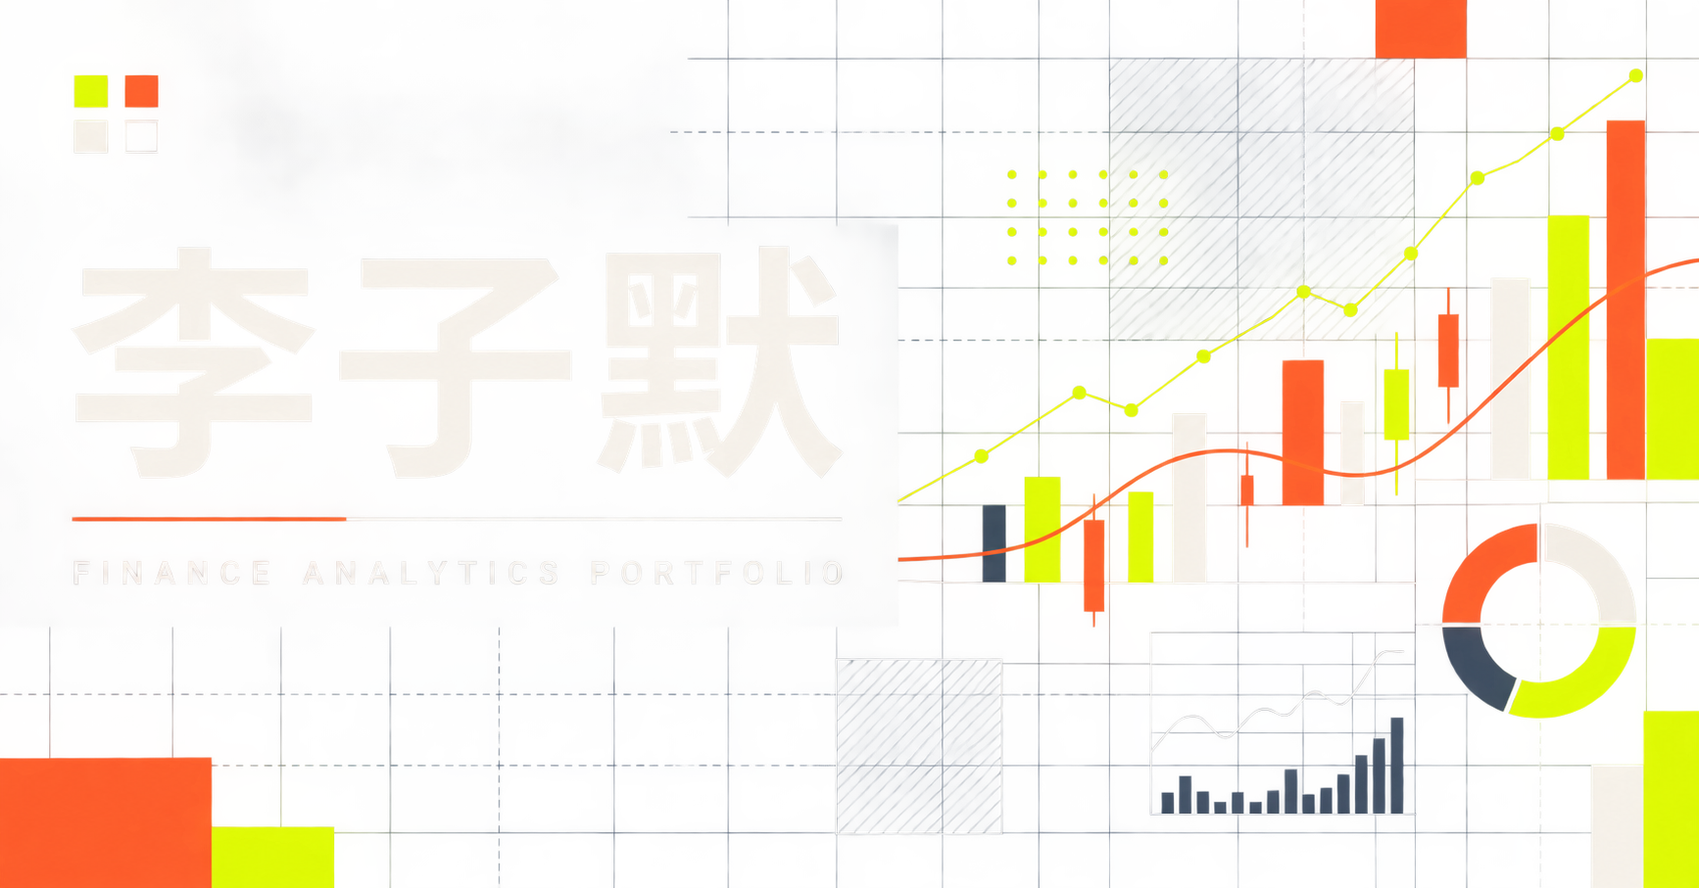
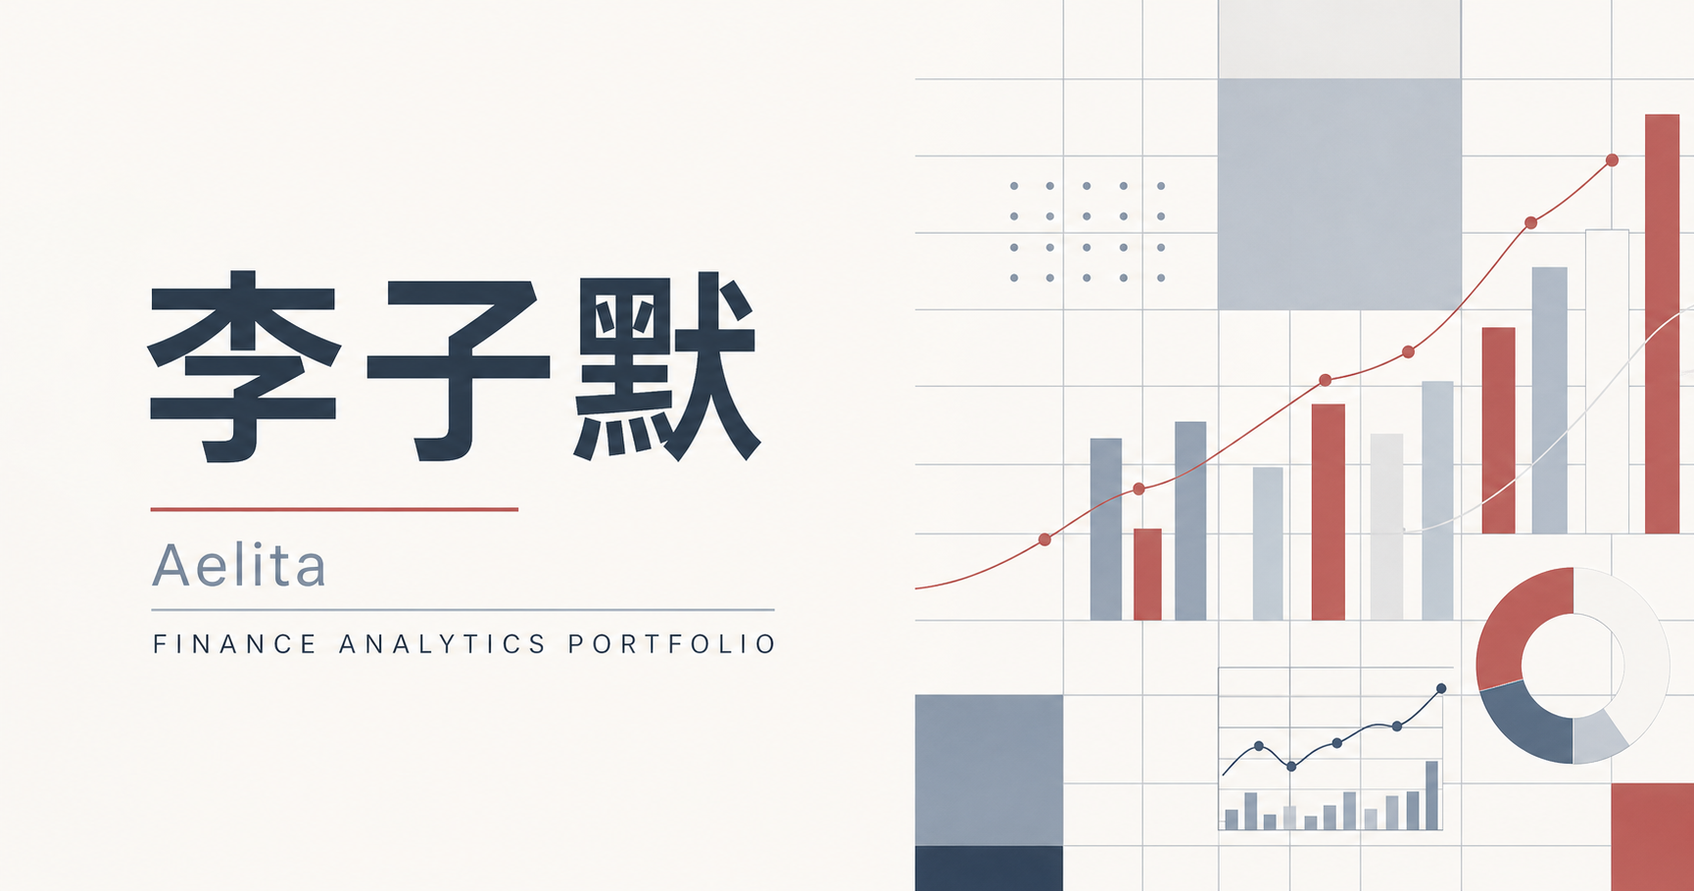
Refine portfolio palette and add English resume

diff --git a/public/resume-en.html b/public/resume-en.html
@@ -1,0 +1,120 @@
+<!DOCTYPE html>
+<html lang="en">
+<head>
+<meta charset="UTF-8" />
+<title>Resume - Finance Analytics / Business Analytics</title>
+<style>
+  * { box-sizing: border-box; }
+  body { margin: 0; background: #f4f1ed; color: #273445; font-family: "Microsoft YaHei", Arial, sans-serif; font-size: 11px; line-height: 1.36; }
+  .page { width: 210mm; min-height: 297mm; margin: 0 auto; padding: 9mm 11mm; background: #fbfaf8; }
+  @page { size: A4; margin: 8mm; }
+  @media print { body { background: #fff; } .page { width: auto; min-height: auto; margin: 0; padding: 0; } .placeholder { color: #273445; } .language-switch { display: none; } }
+  .header { border-bottom: 2px solid #344457; padding-bottom: 5px; margin-bottom: 6px; position: relative; }
+  .name { font-size: 21px; font-weight: 800; color: #344457; letter-spacing: .5px; }
+  .contact { margin-top: 2px; font-size: 10.5px; color: #586576; }
+  .target { margin-top: 4px; font-size: 12.5px; font-weight: 800; color: #344457; }
+  .summary { margin-top: 3px; font-size: 10.8px; color: #273445; }
+  .summary b, b { color: #273445; }
+  .section { margin-top: 6px; }
+  .section-title { font-size: 13px; font-weight: 800; color: #344457; border-bottom: 1px solid #c8cfd6; padding-bottom: 2px; margin-bottom: 4px; }
+  .row { display: flex; justify-content: space-between; align-items: baseline; gap: 8px; }
+  .company { font-size: 11.7px; font-weight: 800; color: #273445; }
+  .role { font-weight: 700; color: #465469; }
+  .date { font-size: 10.3px; color: #697585; white-space: nowrap; }
+  ul { margin: 2px 0 0; padding-left: 15px; }
+  li { margin: 1.5px 0; }
+  .skills { font-size: 10.6px; line-height: 1.4; }
+  .placeholder { color: #a65f5b; font-weight: 700; }
+  .two-col { display: grid; grid-template-columns: 1.2fr 1fr; gap: 12px; }
+  .language-switch { position: absolute; right: 0; top: 2px; color: #a65f5b; font-size: 9px; font-weight: 700; text-decoration: none; }
+</style>
+</head>
+<body>
+<div class="page">
+  <div class="header">
+    <a class="language-switch" href="/resume.html">中文版本 ↗</a>
+    <div class="name">Aelita Li (Li Zimo)</div>
+    <div class="contact">[15221824019] | [15221824019@163.com] | Changning, Shanghai | [BOSS / LinkedIn / Portfolio]</div>
+    <div class="target">Target Roles: Finance Analytics / AI Commercial Finance / Business Analytics / Financial Data Analytics</div>
+    <div class="summary">
+      <b>Around seven years of experience in finance and analytics</b>, CPA non-practising member, and Master of Applied Statistics at Tongji University.
+      In the past two years, focused on <b>overseas FP&amp;A, budgeting and forecasting, cost allocation, Power BI models, and real-time cost monitoring</b>.
+      Earlier experience covers <b>financial statement analysis, historical data cleansing, automated templates, online reporting, and financial-system requirements</b>.
+    </div>
+  </div>
+
+  <div class="section">
+    <div class="section-title">Core Skills &amp; Certifications</div>
+    <div class="skills">
+      <b>Finance &amp; Business:</b> Budgeting, Rolling Forecast, Variance Analysis, Cost Allocation, Cash Forecasting, Management Reporting, Consolidated Reporting, Financial Analysis<br>
+      <b>Data &amp; Tools:</b> Power BI, Excel, Python, MySQL, Metric Definition, Data Cleansing, Time-Series Analysis, Anomaly Detection, Data Visualisation<br>
+      <b>Certifications &amp; Languages:</b> CPA Non-practising Member, ACCA, CFA Level I, Intermediate Accountant, Tax Advisor, CET-6; English as a working language
+    </div>
+  </div>
+
+  <div class="section">
+    <div class="section-title">Professional Experience</div>
+
+    <div class="row">
+      <div><span class="company">[Weidu Technology]</span> | <span class="role">Overseas Financial Analysis / Business Analytics / FP&amp;A</span></div>
+      <div class="date">Jun 2024 – Aug 2026</div>
+    </div>
+    <ul>
+      <li><b>Overseas FP&amp;A:</b> Built budgeting, actuals, rolling-forecast, and cash-forecast analysis frameworks for labour, outsourcing, communications, and other administrative costs across Thailand, Indonesia, and other overseas markets; supported monthly business reviews, budget submissions, and management decisions.</li>
+      <li><b>Long-term cost forecasting:</b> Produced long-range cost projections using business drivers, base months, countries, cohorts, cost categories, and key parameter adjustments; kept forecast-to-actual variance within <span class="placeholder">[verified threshold ≤5%]</span> for selected months and countries.</li>
+      <li><b>Real-time cost monitoring:</b> Tracked D1–15/30 cost ratios, D15/30+ output metrics, actual costs, and forecast variances, moving part of cost analysis from month-end review to in-period monitoring and anomaly identification.</li>
+      <li><b>Power BI and metric definitions:</b> Maintained and improved cost/budget Power BI models, cost-allocation logic, underlying D tables, and metric documentation; supported data requests from Finance, Operations, HR, Compliance, Management, and <span class="placeholder">[number of teams/users]</span>.</li>
+      <li><b>Ad hoc analysis and business partnering:</b> Delivered monthly country-cost, net-collection, cash-forecast, and budget-variance analysis; decomposed the impact of volume, unit cost, mix, and strategy changes and followed up on selected recommendations.</li>
+    </ul>
+
+    <div class="row" style="margin-top:6px;">
+      <div><span class="company">China Minsheng Investment Group</span> | <span class="role">Financial Analysis &amp; Reporting Systematisation</span></div>
+      <div class="date">Oct 2021 – Jun 2024</div>
+    </div>
+    <ul>
+      <li><b>Financial analysis and automation:</b> Built consolidated financial-analysis, expense-analysis, and management-reporting templates; used Excel and Python for automated data extraction and preprocessing to support monthly and annual analysis and anomaly investigation.</li>
+      <li><b>Reporting analysis and risk identification:</b> Performed year-on-year and sequential financial-statement analysis by business segment, reviewed account relationships and unusual movements, and supported the identification of potential financial risks.</li>
+      <li><b>Historical data cleansing:</b> Reviewed historical ledgers and business records, identified book-to-actual differences and long-outstanding balances, and helped clarify and adjust approximately RMB 180 million in historical liabilities.</li>
+      <li><b>Online reporting:</b> Mapped the data sources, processes, and definitions used in financial schedules and consolidated reporting; worked with IT and subsidiaries to improve data consistency and reporting efficiency.</li>
+    </ul>
+
+    <div class="row" style="margin-top:6px;">
+      <div><span class="company">Shanghai Nanyan Information Technology / Shanghai Junhua Fuli Information Technology</span> | <span class="role">Financial Reporting &amp; Data-System Support</span></div>
+      <div class="date">Jan 2019 – Oct 2021</div>
+    </div>
+    <ul>
+      <li><b>Financial data preparation:</b> Built internal reconciliation, weekly cash, foreign-currency translation, and e-commerce revenue templates; reconciled and cleaned historical intercompany, receivables, and transaction data to improve data accuracy and monthly reporting efficiency.</li>
+      <li><b>Foundational financial analysis:</b> Supported management reporting and performed multi-dimensional sequential analysis of revenue and other key financial data to explain current operating and financial performance.</li>
+      <li><b>System requirements:</b> Helped deliver integrations between business and invoicing systems, including self-service invoicing for WeChat stores; documented finance processes, field definitions, and operating instructions.</li>
+    </ul>
+  </div>
+
+  <div class="section">
+    <div class="section-title">Selected Data Project</div>
+    <div class="row">
+      <div><span class="company">Tongji University Master&apos;s Project</span> | <span class="role">Multimodal Public-Opinion and Performance Change Early-Warning System for Open-World Games</span></div>
+      <div class="date">2025 – 2026</div>
+    </div>
+    <ul>
+      <li><b>Research-based anomaly-monitoring framework:</b> Processed 1.25 million text records and 1.04 million images from real gaming social-media data, using Python to build data collection, feature engineering, time-series modelling, anomaly detection, and attribution workflows.</li>
+      <li><b>Metrics and models:</b> Built a 19-dimensional monitoring system combining time-series decomposition, Gaussian Copula, Temporal Fusion Transformer, topic modelling, and image clustering to identify sudden anomalies, persistent anomalies, and long-term trend shifts.</li>
+      <li><b>Transferable business value:</b> Designed the project as a research framework transferable to business monitoring, customer-feedback analysis, and data-product scenarios; real-world deployment would still require business thresholds, human review, and online data-stability validation.</li>
+    </ul>
+  </div>
+
+  <div class="section two-col">
+    <div>
+      <div class="section-title">Education</div>
+      <div><b>Tongji University | Master of Applied Statistics (Part-time)</b> | Sep 2024 – Mar 2026</div>
+      <div>Average grade: 94.5; coursework: Applied Stochastic Processes, Statistical Models in Finance, Modern Numerical Analysis and Computation, Mathematical Statistics</div>
+      <div style="margin-top:2px;"><b>Shanghai University of International Business and Economics | B.A. in Accounting (International Track)</b> | Sep 2015 – Jun 2019</div>
+    </div>
+    <div>
+      <div class="section-title">Modelling Competitions</div>
+      <div><b>Third Prize, National Graduate Industrial and Economic Financial Big Data Modelling Competition:</b> Spatiotemporal PM2.5 patterns; responsible for SARIMA and LSTM forecasting.</div>
+      <div style="margin-top:2px;"><b>Third Prize, Shanghai Division, National Undergraduate Statistical Modelling Competition:</b> SAC hedging strategy for CSI 300 index options; responsible for environment setup and results analysis.</div>
+    </div>
+  </div>
+</div>
+</body>
+</html>

diff --git a/app/globals.css b/app/globals.css
@@ -1,60 +1,57 @@
 @import "tailwindcss";
 
 :root {
-  --ink: #101d35;
-  --ink-soft: #1a2a47;
-  --paper: #f3f1ea;
-  --paper-deep: #e8e5dc;
-  --white: #fffdf7;
-  --acid: #dfff00;
-  --orange: #ff5b35;
-  --line: rgba(16, 29, 53, 0.18);
+  --ink: #344457;
+  --ink-soft: #405268;
+  --paper: #f4f1ed;
+  --paper-deep: #e7e1df;
+  --white: #fbfaf8;
+  --acid: #7b8fa6;
+  --orange: #a65f5b;
+  --line: rgba(52, 68, 87, 0.2);
+  --font-geist-sans: "Microsoft YaHei", Arial, sans-serif;
+  --font-geist-mono: "Microsoft YaHei", Arial, sans-serif;
 }
 
 * { box-sizing: border-box; }
 html { scroll-behavior: smooth; }
-body { background: var(--paper); color: var(--ink); font-family: var(--font-geist-sans), "PingFang SC", "Microsoft YaHei", sans-serif; margin: 0; }
+body { background: var(--paper); color: var(--ink); font-family: "Microsoft YaHei", Arial, sans-serif; letter-spacing: 2mm; margin: 0; }
 a { color: inherit; text-decoration: none; }
 img { display: block; max-width: 100%; }
 ::selection { background: var(--acid); color: var(--ink); }
-.shell { margin: 0 auto; max-width: 1600px; padding-left: clamp(24px, 5vw, 80px); padding-right: clamp(24px, 5vw, 80px); }
+.shell { margin: 0 auto; max-width: 1220px; padding-left: 24px; padding-right: 24px; }
 .section-space { padding-bottom: clamp(104px, 11vw, 180px); padding-top: clamp(104px, 11vw, 180px); }
 .overline { font-family: var(--font-geist-mono); font-size: 11px; font-weight: 700; letter-spacing: .15em; margin: 0; text-transform: uppercase; }
 
-.site-header { align-items: center; backdrop-filter: blur(16px); background: rgba(243, 241, 234, .88); border-bottom: 1px solid var(--line); display: grid; grid-template-columns: 1fr auto 1fr; height: 74px; padding: 0 clamp(24px, 5vw, 80px); position: sticky; top: 0; z-index: 50; }
-.wordmark { font-size: 21px; font-weight: 850; justify-self: start; letter-spacing: -.06em; }
-.wordmark span { color: var(--orange); font-size: 8px; margin-left: 3px; vertical-align: top; }
+.site-header { align-items: center; backdrop-filter: blur(16px); background: rgba(244, 241, 237, .92); border-bottom: 1px solid var(--line); display: flex; height: 74px; justify-content: space-between; padding: 0 max(24px, calc((100vw - 1172px) / 2)); position: sticky; top: 0; z-index: 50; }
 .main-nav { align-items: center; display: flex; font-size: 13px; font-weight: 650; gap: clamp(22px, 3vw, 48px); }
 .main-nav a, .resume-link { transition: color .2s ease; }
 .main-nav a:hover, .resume-link:hover { color: var(--orange); }
-.resume-link { font-family: var(--font-geist-mono); font-size: 11px; font-weight: 700; justify-self: end; letter-spacing: .08em; }
+.resume-menu { align-items: center; display: flex; gap: 22px; }
+.resume-link { font-family: var(--font-geist-mono); font-size: 11px; font-weight: 700; letter-spacing: .08em; }
 .resume-link span { color: var(--orange); margin-left: 8px; }
 
-.portfolio-hero { display: grid; gap: 0 clamp(48px, 8vw, 130px); grid-template-columns: minmax(0, 1.18fr) minmax(340px, .82fr); min-height: calc(100vh - 74px); padding-bottom: 48px; padding-top: clamp(60px, 8vw, 116px); }
-.hero-main { align-self: center; }
+.portfolio-hero { display: block; min-height: auto; padding-bottom: 64px; padding-top: 42px; }
+.hero-status { align-items: center; background: var(--ink); color: white; display: flex; justify-content: space-between; margin-bottom: clamp(68px, 8vw, 108px); padding: 18px 22px; }
+.hero-status .status { color: #e8edf1; font-size: 11px; font-weight: 700; letter-spacing: .08em; white-space: nowrap; }
+.hero-status .status i { background: #b36c68; }
+.hero-status p { color: rgba(255,255,255,.78); font-size: 11px; letter-spacing: .08em; margin: 0; text-align: right; }
+.hero-status small { color: #b8c3ce; font-size: 9px; margin-right: 14px; }
+.hero-main { max-width: 1100px; }
 .hero-main > .overline { color: var(--orange); }
-.hero-main h1 { font-size: clamp(78px, 10.5vw, 176px); font-weight: 690; letter-spacing: -.085em; line-height: .78; margin: 42px 0 0; }
-.hero-main h1 span { display: block; font-size: clamp(28px, 3.7vw, 60px); font-weight: 610; letter-spacing: -.06em; line-height: 1.14; margin-top: 48px; max-width: 940px; }
-.hero-summary { font-size: clamp(15px, 1.3vw, 20px); line-height: 1.8; margin: 34px 0 0; max-width: 760px; }
+.hero-main h1 { align-items: baseline; display: flex; flex-wrap: wrap; gap: 18px 34px; line-height: .92; margin: 38px 0 0; }
+.hero-main h1 .name-cn { font-size: clamp(64px, 9vw, 124px); font-weight: 680; letter-spacing: 2mm; }
+.hero-main h1 .name-en { color: var(--orange); font-size: clamp(40px, 5.4vw, 74px); font-weight: 560; letter-spacing: .02em; }
+.hero-statement { font-size: clamp(30px, 4vw, 52px); font-weight: 600; letter-spacing: 2mm; line-height: 1.45; margin: 52px 0 0; max-width: 980px; }
+.hero-summary { font-size: clamp(15px, 1.3vw, 18px); line-height: 2.1; margin: 38px 0 0; max-width: 940px; }
 .hero-cta { align-items: center; display: flex; flex-wrap: wrap; gap: 30px; margin-top: 42px; }
 .primary-cta { align-items: center; background: var(--ink); color: white; display: inline-flex; font-size: 14px; font-weight: 700; gap: 70px; justify-content: space-between; min-width: 220px; padding: 18px 20px; transition: background .2s ease, transform .2s ease; }
 .primary-cta:hover { background: var(--orange); transform: translateY(-2px); }
 .text-cta { border-bottom: 1px solid var(--ink); font-size: 14px; font-weight: 700; padding: 8px 0; }
 .text-cta span { color: var(--orange); margin-left: 18px; }
 
-.hero-panel { align-self: stretch; background: var(--ink); box-shadow: 22px 22px 0 var(--acid); color: white; display: flex; flex-direction: column; min-height: 590px; overflow: hidden; padding: 24px; position: relative; }
-.hero-panel::before { background-image: linear-gradient(rgba(255,255,255,.065) 1px, transparent 1px), linear-gradient(90deg, rgba(255,255,255,.065) 1px, transparent 1px); background-size: 25% 25%; content: ""; inset: 0; pointer-events: none; position: absolute; }
-.panel-head, .panel-foot { display: flex; font-family: var(--font-geist-mono); font-size: 9px; font-weight: 700; justify-content: space-between; letter-spacing: .12em; position: relative; z-index: 1; }
 .status { color: var(--acid); }
 .status i { animation: pulse 2s ease-in-out infinite; background: var(--acid); border-radius: 50%; display: inline-block; height: 6px; margin-right: 7px; width: 6px; }
-.monogram { align-items: center; display: flex; flex: 1; justify-content: center; position: relative; z-index: 1; }
-.monogram span { color: var(--paper); font-size: clamp(88px, 10vw, 162px); font-weight: 750; letter-spacing: -.18em; line-height: 1; mix-blend-mode: screen; }
-.monogram span:nth-child(2) { color: var(--orange); transform: translateY(-18px); }
-.monogram span:nth-child(3) { color: var(--acid); transform: translateY(18px); }
-.panel-role { border-top: 1px solid rgba(255,255,255,.25); padding-top: 20px; position: relative; z-index: 1; }
-.panel-role small { color: var(--acid); font-family: var(--font-geist-mono); font-size: 9px; letter-spacing: .13em; }
-.panel-role p { font-size: 22px; font-weight: 600; line-height: 1.4; margin: 10px 0 22px; }
-.panel-foot { color: rgba(255,255,255,.48); }
 
 .profile-metrics { border-bottom: 1px solid var(--line); border-top: 1px solid var(--line); display: grid; grid-column: 1 / -1; grid-template-columns: repeat(4, 1fr); margin: clamp(80px, 9vw, 132px) 0 0; }
 .profile-metrics div { border-right: 1px solid var(--line); padding: 22px; }
@@ -137,21 +134,29 @@ footer h2 span { color: var(--acid); }
 .footer-bottom { border-top: 1px solid rgba(255,255,255,.4); display: flex; font-family: var(--font-geist-mono); font-size: 9px; justify-content: space-between; letter-spacing: .08em; margin-top: 110px; padding-top: 24px; }
 
 @media (max-width: 1100px) {
-  .portfolio-hero { grid-template-columns: 1fr; }
-  .hero-panel { margin-top: 72px; min-height: 540px; }
-  .profile-metrics { margin-top: 90px; }
+  .profile-metrics { margin-top: 82px; }
   .project-card { grid-template-columns: 1fr; }
   .project-visual { min-height: 500px; }
   .project-copy { min-height: 620px; }
+  .capability-grid { grid-template-columns: 1fr; }
+  .capability-grid article { min-height: 390px; }
   .credential-board { grid-template-columns: repeat(2, 1fr); }
 }
 
 @media (max-width: 760px) {
-  .site-header { grid-template-columns: 1fr auto; height: 64px; }
+  body { letter-spacing: 2mm; }
+  .site-header { height: 64px; padding: 0 18px; }
   .main-nav { display: none; }
-  .hero-main h1 { font-size: clamp(68px, 23vw, 116px); margin-top: 34px; }
-  .hero-main h1 span { font-size: clamp(29px, 9vw, 46px); margin-top: 40px; }
-  .hero-panel { box-shadow: 12px 12px 0 var(--acid); min-height: 470px; }
+  .resume-menu { gap: 12px; }
+  .resume-link { font-size: 9px; }
+  .resume-link span { margin-left: 3px; }
+  .portfolio-hero { padding-top: 24px; }
+  .hero-status { align-items: flex-start; flex-direction: column; gap: 12px; margin-bottom: 64px; }
+  .hero-status p { line-height: 1.7; text-align: left; }
+  .hero-main h1 { align-items: flex-start; flex-direction: column; gap: 16px; margin-top: 34px; }
+  .hero-main h1 .name-cn { font-size: clamp(58px, 19vw, 86px); letter-spacing: 2mm; }
+  .hero-main h1 .name-en { font-size: clamp(36px, 11vw, 52px); }
+  .hero-statement { font-size: clamp(29px, 8vw, 42px); letter-spacing: 2mm; margin-top: 40px; }
   .profile-metrics { grid-template-columns: repeat(2, 1fr); }
   .profile-metrics div:nth-child(2) { border-right: 0; }
   .profile-metrics div:nth-child(-n+2) { border-bottom: 1px solid var(--line); }

diff --git a/app/page.tsx b/app/page.tsx
@@ -21,30 +21,30 @@ export default function Home() {
   return (
     <main id="top">
       <header className="site-header">
-        <a className="wordmark" href="#top" aria-label="返回首页顶部">LZM<span>®</span></a>
         <nav className="main-nav" aria-label="主导航">
           <a href="#work">项目</a><a href="#capabilities">能力</a><a href="#experience">经历</a><a href="#contact">联系</a>
         </nav>
-        <a className="resume-link" href="/resume.html" target="_blank">RESUME <span aria-hidden="true">↗</span></a>
+        <div className="resume-menu" aria-label="简历下载">
+          <a className="resume-link" href="/resume.html" target="_blank">中文简历 <span aria-hidden="true">↗</span></a>
+          <a className="resume-link" href="/resume-en.html" target="_blank">EN RESUME <span aria-hidden="true">↗</span></a>
+        </div>
       </header>
 
       <section className="portfolio-hero shell" aria-labelledby="hero-title">
+        <div className="hero-status">
+          <span className="status"><i /> OPEN TO WORK</span>
+          <p><small>TARGET ROLES</small> Finance Analytics · AI Commercial Finance · 经营分析</p>
+        </div>
         <div className="hero-main">
           <p className="overline">FINANCE ANALYTICS · SHANGHAI</p>
-          <h1 id="hero-title">李子默<span>把财务问题，转化为可行动的数据答案。</span></h1>
-          <p className="hero-summary">7 年财务与分析经验，横跨经营分析、预算预测、数据治理与自动化。我关注的不只是“发生了什么”，更是为什么发生、接下来该做什么。</p>
+          <h1 id="hero-title"><span className="name-cn">李子默</span><span className="name-en">Aelita</span></h1>
+          <p className="hero-statement">把财务问题，转化为可行动的数据答案。</p>
+          <p className="hero-summary">7 年财务与分析经验，横跨经营分析、长期预测、预算管理、数据治理与自动化。我关注的不只是“发生了什么”，更是为什么发生、接下来该做什么。</p>
           <div className="hero-cta">
             <a className="primary-cta" href="#work">查看作品 <span aria-hidden="true">↓</span></a>
             <a className="text-cta" href="mailto:15221824019@163.com">和我聊聊 <span aria-hidden="true">↗</span></a>
           </div>
         </div>
-
-        <aside className="hero-panel" aria-label="求职状态与个人关键词">
-          <div className="panel-head"><span>PROFILE / 2026</span><span className="status"><i /> OPEN TO WORK</span></div>
-          <div className="monogram" aria-hidden="true"><span>L</span><span>Z</span><span>M</span></div>
-          <div className="panel-role"><small>FOCUS</small><p>Finance Analytics<br />商业财务 · 经营分析</p></div>
-          <div className="panel-foot"><span>FP&amp;A</span><span>DATA</span><span>AUTOMATION</span></div>
-        </aside>
 
         <dl className="profile-metrics">
           <div><dt>7 年</dt><dd>财务与分析经验</dd></div><div><dt>同济</dt><dd>应用统计硕士</dd></div>
@@ -125,7 +125,8 @@ export default function Home() {
           <p className="footer-note">正在寻找 Finance Analytics、AI Commercial Finance 与经营分析机会。</p>
           <div className="contact-row">
             <a href="mailto:15221824019@163.com">15221824019@163.com <span>↗</span></a>
-            <a href="/resume.html" target="_blank">查看完整简历 <span>↗</span></a>
+            <a href="/resume.html" target="_blank">中文简历 <span>↗</span></a>
+            <a href="/resume-en.html" target="_blank">English Resume <span>↗</span></a>
           </div>
           <div className="footer-bottom"><span>李子默 · 上海</span><span>FINANCE ANALYTICS PORTFOLIO · 2026</span><a href="#top">BACK TO TOP ↑</a></div>
         </div>

diff --git a/app/layout.tsx b/app/layout.tsx
@@ -1,17 +1,6 @@
 import type { Metadata } from "next";
-import { Geist, Geist_Mono } from "next/font/google";
 import { headers } from "next/headers";
 import "./globals.css";
-
-const geistSans = Geist({
-  variable: "--font-geist-sans",
-  subsets: ["latin"],
-});
-
-const geistMono = Geist_Mono({
-  variable: "--font-geist-mono",
-  subsets: ["latin"],
-});
 
 export async function generateMetadata(): Promise<Metadata> {
   const requestHeaders = await headers();
@@ -37,11 +26,7 @@ export default function RootLayout({
 }>) {
   return (
     <html lang="zh-CN">
-      <body
-        className={`${geistSans.variable} ${geistMono.variable} antialiased`}
-      >
-        {children}
-      </body>
+      <body>{children}</body>
     </html>
   );
 }
